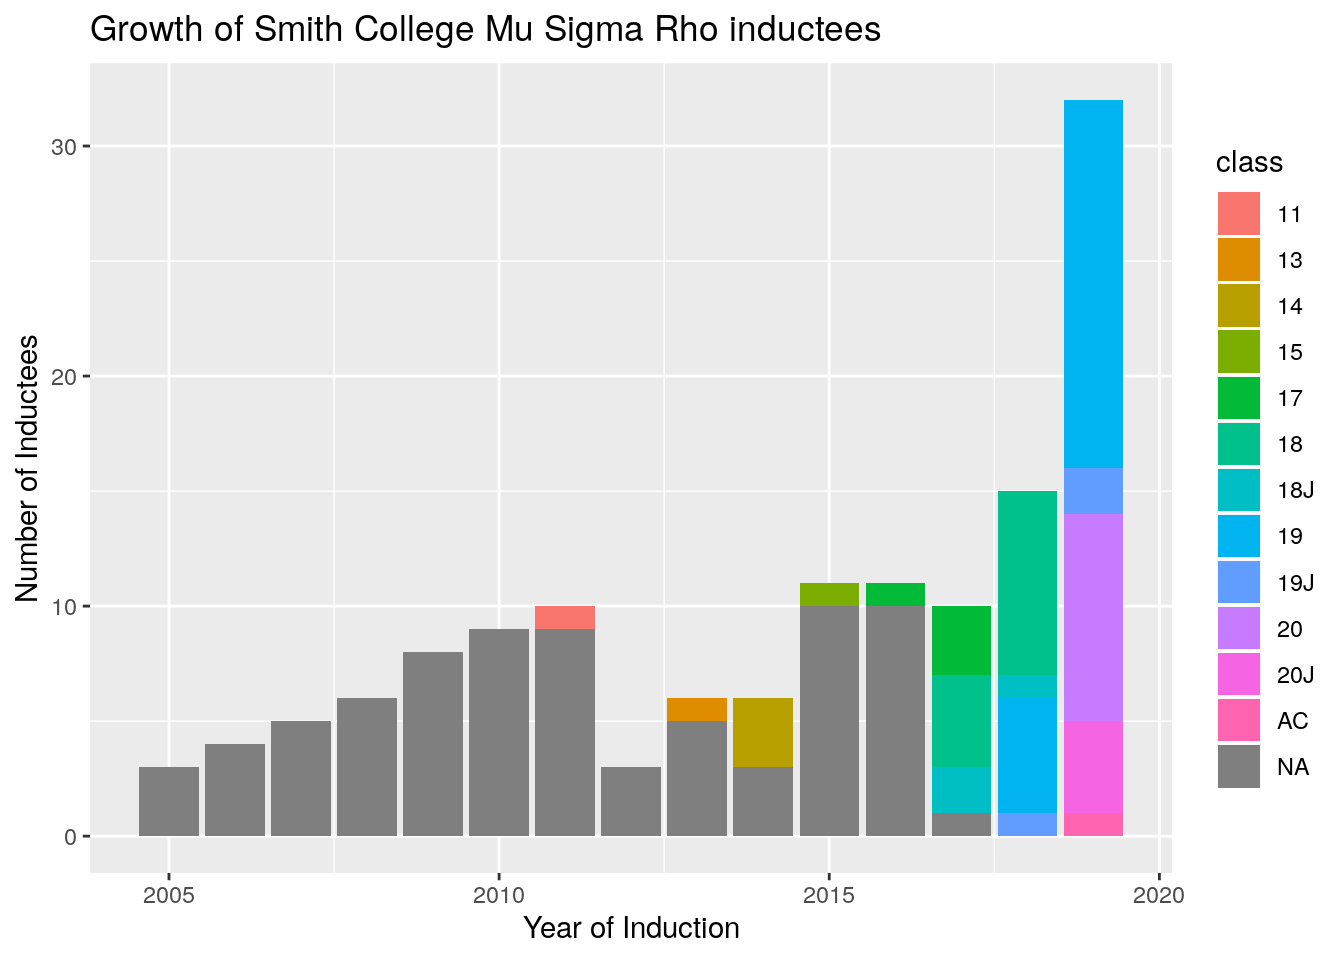
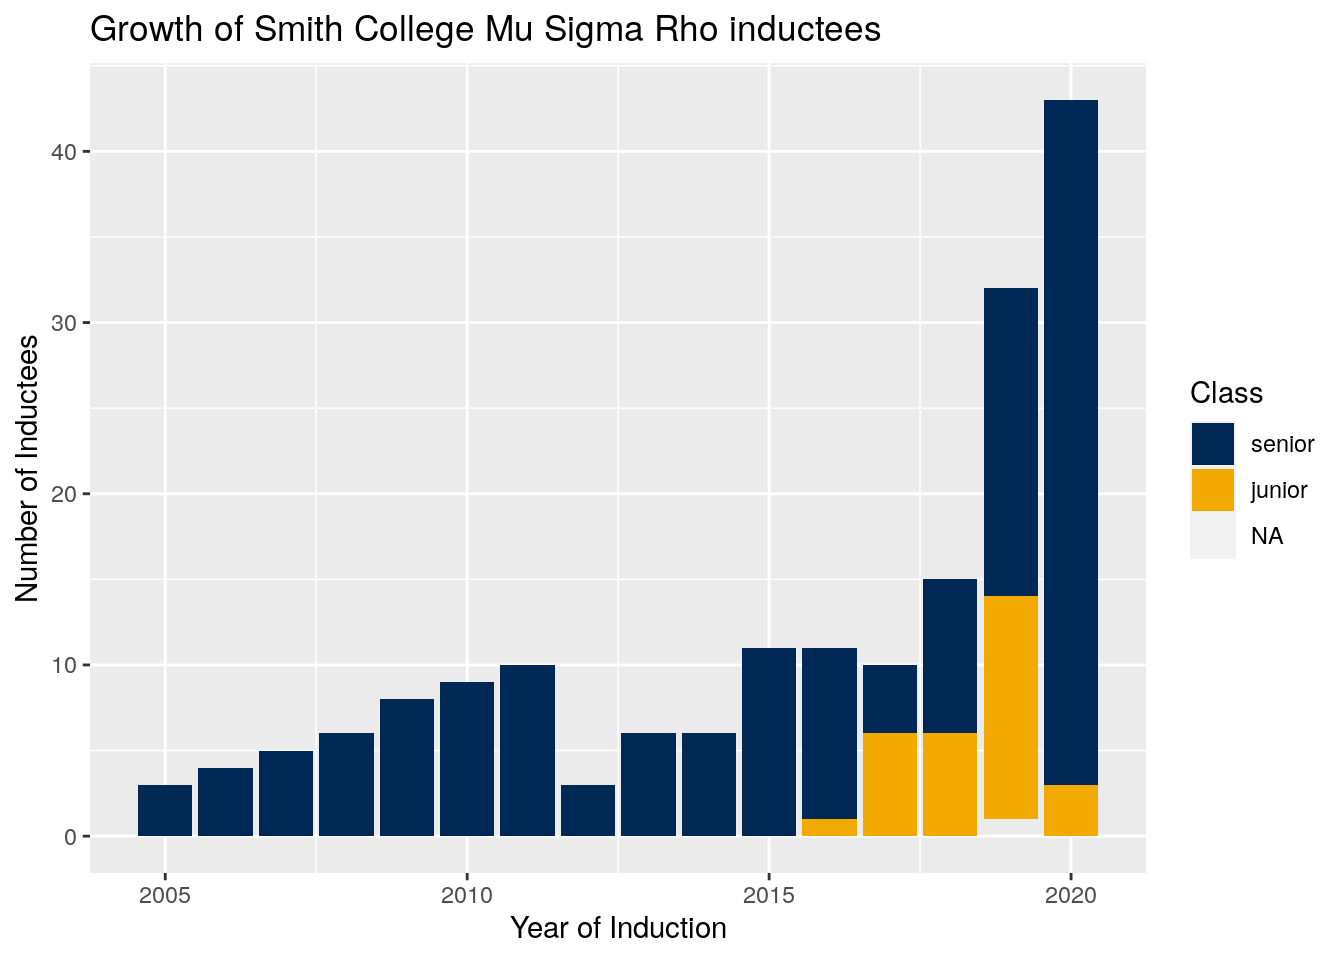
updated mu sigma rho

diff --git a/docs/mu_sigma_rho.html b/docs/mu_sigma_rho.html
@@ -20,14 +20,14 @@
 <script src="site_libs/bootstrap-3.3.5/shim/html5shiv.min.js"></script>
 <script src="site_libs/bootstrap-3.3.5/shim/respond.min.js"></script>
 <script src="site_libs/navigation-1.1/tabsets.js"></script>
-<script src="site_libs/htmlwidgets-1.5.1/htmlwidgets.js"></script>
+<script src="site_libs/htmlwidgets-1.3/htmlwidgets.js"></script>
 <link href="site_libs/datatables-css-0.0.0/datatables-crosstalk.css" rel="stylesheet" />
-<script src="site_libs/datatables-binding-0.10/datatables.js"></script>
-<link href="site_libs/dt-core-1.10.19/css/jquery.dataTables.min.css" rel="stylesheet" />
-<link href="site_libs/dt-core-1.10.19/css/jquery.dataTables.extra.css" rel="stylesheet" />
-<script src="site_libs/dt-core-1.10.19/js/jquery.dataTables.min.js"></script>
-<link href="site_libs/crosstalk-1.0.0/css/crosstalk.css" rel="stylesheet" />
-<script src="site_libs/crosstalk-1.0.0/js/crosstalk.min.js"></script>
+<script src="site_libs/datatables-binding-0.13/datatables.js"></script>
+<link href="site_libs/dt-core-1.10.20/css/jquery.dataTables.min.css" rel="stylesheet" />
+<link href="site_libs/dt-core-1.10.20/css/jquery.dataTables.extra.css" rel="stylesheet" />
+<script src="site_libs/dt-core-1.10.20/js/jquery.dataTables.min.js"></script>
+<link href="site_libs/crosstalk-1.1.0.1/css/crosstalk.css" rel="stylesheet" />
+<script src="site_libs/crosstalk-1.1.0.1/js/crosstalk.min.js"></script>
 <link href="site_libs/font-awesome-5.1.0/css/all.css" rel="stylesheet" />
 <link href="site_libs/font-awesome-5.1.0/css/v4-shims.css" rel="stylesheet" />
 
@@ -382,8 +382,8 @@ Growth of Mu Sigma Rho inductees.
 </p>
 </div>
 <p>Search the archive to find inductees:</p>
-<div id="htmlwidget-ba2f5fff5e00f4e9b88b" style="width:100%;height:auto;" class="datatables html-widget"></div>
-<script type="application/json" data-for="htmlwidget-ba2f5fff5e00f4e9b88b">{"x":{"filter":"none","data":[["1","2","3","4","5","6","7","8","9","10","11","12","13","14","15","16","17","18","19","20","21","22","23","24","25","26","27","28","29","30","31","32","33","34","35","36","37","38","39","40","41","42","43","44","45","46","47","48","49","50","51","52","53","54","55","56","57","58","59","60","61","62","63","64","65","66","67","68","69","70","71","72","73","74","75","76","77","78","79","80","81","82","83","84","85","86","87","88","89","90","91","92","93","94","95","96","97","98","99","100","101","102","103","104","105","106","107","108","109","110","111","112","113","114","115","116","117","118","119","120","121","122","123","124","125","126","127","128","129","130","131","132","133","134","135","136","137","138","139"],[2019,2019,2019,2019,2019,2019,2019,2019,2019,2019,2019,2019,2019,2019,2019,2019,2019,2019,2019,2019,2019,2019,2019,2019,2019,2019,2019,2019,2019,2019,2019,2019,2018,2018,2018,2018,2018,2018,2018,2018,2018,2018,2018,2018,2018,2018,2018,2017,2017,2017,2017,2017,2017,2017,2017,2017,2017,2016,2016,2016,2016,2016,2016,2016,2016,2016,2016,2016,2015,2015,2015,2015,2015,2015,2015,2015,2015,2015,2015,2014,2014,2014,2014,2014,2014,2013,2013,2013,2013,2013,2013,2012,2012,2012,2011,2011,2011,2011,2011,2011,2011,2011,2011,2011,2010,2010,2010,2010,2010,2010,2010,2010,2010,2009,2009,2009,2009,2009,2009,2009,2009,2008,2008,2008,2008,2008,2008,2007,2007,2007,2007,2007,2006,2006,2006,2006,2005,2005,2005],["Abramson","Alvord","Daubenspeck","Dror","Foukaris","Gans","Haines","Halloway","Halstead","Kahindi","Keast","Kosyka","Kuang","LaBossier","LaFlamme","Lee","Liu","Lu","Miguel","Moody","Ning","Patrick","Sweeney","VanAllen","Wang","Wang","Xiao","Xu","Yun","Zang","Zhang","Zhou","Boeth","Calabrese","Kang","Kyuchukova","Lemiesz","Li","Madziwo","Nguyen","Qian","Rizvi","Ruppel","Shen","Wang","Xia","Yun","Dasari","Dinh","Fitzpatrick","Fukuda","Laethem","Li","Li","Mishkin","Shaw","Sinha","Augusto","Beauchamp","Bowling","Menter","Miller","Wang","Xia","Yun","Zhang","Zheng","Zhu","Atkins","Earley","Ekins","Flores","Goore","Handy","Kung","Li","Maphanyane","Stoudt","Zhang","Fitzpatrick","Lee","Li","Milosavljevic","Udwin","Zhao","Aloisio","Pal","Shen","Yan","Yeazel","Zadworny","Anoke","Cao","Yang","Aloisio","Aryal","Do","Dodwell","Gao","Johnson","Jung","Lynch","Nyamumbo","Zadworny","Chen","Indge","Ma","Neal","O’Connor","Parker","Sheng","Tapia","Yang","Chen","Kam","Krumdieck","Lofgren","McDonough","Rathnam","Terres","Zhang","Dexter","Kirk","Rijal","Tyler","Woerner","Zheng","Bacon","Boonroong","Jain","Miu","Spasova","Antoske","Braverman","Spiegelman","Switzer","Finucane","Qian","Sang"],["Mathena","Julianna","Emily","Arielle","Stephanie","Tommi","Madeline","Shakira","Emily","Joan","Jessica","Kalynn","Yue","Natalie","Rachel","Julia","Jingyi","Hanxiao","Danica","Jordan","Yujia","Paige","Catherine","Kara","Vivian","Xiaonan","Tiffany","Chenwei","Duanyue","Ziwei","Kimberly","Yujia","Riley","Julianna","Minji","Katerina","Katherine","Zixian","Rutendo","Van","Siyu","Syeda Zainab","Emily","Zhu","Yi","Jing","Ji Young","Preeti","Ngoc","Isabelle","Erina","Madison","Qingyang","Wencong","Juliana","Olivia","Aakanksha","Carmen","Emma","Alicia","Jordan","Martha","Ruiwen","Jing","Julia","Weijia","Qingyun","Yiwen","Elizabeth","Erika","Jacqueline","Yadira","Lou Lydia Laura","Michele","Yungjen","YuXin","Lerato","Sara","Jingyang","Deirdre","Ji Ah","Rui","Maja","Dana","Yuting","Kathryn","Isabela","Qingyang","Haomin","Linnea","Zoe","Sarah","Guangye","Wenyue","Kathryn","Shivani","Elizabeth","Emily","Chi","Kathryn","Elizabeth","Kathryn","Margaret","Zoe","Zehui","Caroline","Thida","Marissa","Cyla","Portia","Isabel","Amanda","Hong","Xiaoshuang","Sarah","Natalie","Katherine","Shannon","Sarah","Maria","Christine","Nancy","Jennifer","Dharana","Kristin","Martha","Min","Julie","Onjira","Shikha","Kwun","Ana","Elizabeth","Stacy","Maura","Suzanne","Mariel","Linjuan","Xiaohong"],[null,null,null,null,null,null,"Maddie",null,null,null,null,null,null,null,null,null,null,null,null,null,"Emma",null,null,null,null,"Maggie",null,null,"Nancy","Crystal","Kim",null,null,null,null,null,null,null,null,null,"Lily",null,null,null,null,null,null,null,null,null,null,null,null,"Priscilla",null,null,null,null,null,null,null,null,null,null,null,"Vega",null,null,null,null,null,null,null,null,null,null,null,null,"Judy",null,null,null,null,null,null,null,null,"Rallye",null,null,null,null,null,null,null,null,null,null,null,"Molly",null,null,null,null,null,null,null,null,null,null,null,null,null,null,null,null,null,null,null,null,null,null,null,null,null,null,null,null,null,null,null,null,null,null,null,null,null,null,null],["19","19","20","20","19","19J","20","19","19","19","20","19","19","19","20J","19","19","19","20","20","19","AC","19","20","19","20","20J","20J","19","20J","19J","20","18","18","18","19","18","19","19","18","19","18","18","19J","19","18J","18","17",null,"18","18","18","17","18","18J","17","18J",null,null,null,null,null,null,null,null,"17",null,null,null,null,null,null,null,null,null,null,null,"15",null,"14",null,null,"14","14",null,"13",null,null,null,null,null,null,null,null,null,null,null,"11",null,null,null,null,null,null,null,null,null,null,null,null,null,null,null,null,null,null,null,null,null,null,null,null,null,null,null,null,null,null,null,null,null,null,null,null,null,null,null,null,null]],"container":"<table class=\"display\">\n  <thead>\n    <tr>\n      <th> <\/th>\n      <th>induction<\/th>\n      <th>Last<\/th>\n      <th>First<\/th>\n      <th>PrefFirst<\/th>\n      <th>class<\/th>\n    <\/tr>\n  <\/thead>\n<\/table>","options":{"pageLength":25,"columnDefs":[{"className":"dt-right","targets":1},{"orderable":false,"targets":0}],"order":[],"autoWidth":false,"orderClasses":false}},"evals":[],"jsHooks":[]}</script>
+<div id="htmlwidget-ff2594fe23292328e688" style="width:100%;height:auto;" class="datatables html-widget"></div>
+<script type="application/json" data-for="htmlwidget-ff2594fe23292328e688">{"x":{"filter":"none","data":[["1","2","3","4","5","6","7","8","9","10","11","12","13","14","15","16","17","18","19","20","21","22","23","24","25","26","27","28","29","30","31","32","33","34","35","36","37","38","39","40","41","42","43","44","45","46","47","48","49","50","51","52","53","54","55","56","57","58","59","60","61","62","63","64","65","66","67","68","69","70","71","72","73","74","75","76","77","78","79","80","81","82","83","84","85","86","87","88","89","90","91","92","93","94","95","96","97","98","99","100","101","102","103","104","105","106","107","108","109","110","111","112","113","114","115","116","117","118","119","120","121","122","123","124","125","126","127","128","129","130","131","132","133","134","135","136","137","138","139","140","141","142","143","144","145","146","147","148","149","150","151","152","153","154","155","156","157","158","159","160","161","162","163","164","165","166","167","168","169","170","171","172","173","174","175","176","177","178","179","180","181","182"],[2020,2020,2020,2020,2020,2020,2020,2020,2020,2020,2020,2020,2020,2020,2020,2020,2020,2020,2020,2020,2020,2020,2020,2020,2020,2020,2020,2020,2020,2020,2020,2020,2020,2020,2020,2020,2020,2020,2020,2020,2020,2020,2020,2019,2019,2019,2019,2019,2019,2019,2019,2019,2019,2019,2019,2019,2019,2019,2019,2019,2019,2019,2019,2019,2019,2019,2019,2019,2019,2019,2019,2019,2019,2019,2019,2018,2018,2018,2018,2018,2018,2018,2018,2018,2018,2018,2018,2018,2018,2018,2017,2017,2017,2017,2017,2017,2017,2017,2017,2017,2016,2016,2016,2016,2016,2016,2016,2016,2016,2016,2016,2015,2015,2015,2015,2015,2015,2015,2015,2015,2015,2015,2014,2014,2014,2014,2014,2014,2013,2013,2013,2013,2013,2013,2012,2012,2012,2011,2011,2011,2011,2011,2011,2011,2011,2011,2011,2010,2010,2010,2010,2010,2010,2010,2010,2010,2009,2009,2009,2009,2009,2009,2009,2009,2008,2008,2008,2008,2008,2008,2007,2007,2007,2007,2007,2006,2006,2006,2006,2005,2005,2005],["Bang","Barrios","Barylsky","Bell","Bouzaher","Carttar","Chang","Chau","Chen","Cho","Dai","Dem","El Mernissi","Foster","Furukawa","Giardine","Glidden","He","Hwang","Jaiteh","Ji","Jiang","Keita","Kusmic","Lemoto","Lewis-Bartley","Li","Livingston","Lyu","Ma","Mudanye","Mutalemwa","Ogawa","Pan","Pien","Rosenberg","Ryan","Santamaria","Snell","Tannir","Tasneem","Xu","Zamudio-Moore","Abramson","Alvord","Daubenspeck","Dror","Foukaris","Gans","Haines","Halloway","Halstead","Kahindi","Keast","Kosyka","Kuang","LaBossier","LaFlamme","Lee","Liu","Lu","Miguel","Moody","Ning","Patrick","Sweeney","VanAllen","Wang","Wang","Xiao","Xu","Yun","Zang","Zhang","Zhou","Boeth","Calabrese","Kang","Kyuchukova","Lemiesz","Li","Madziwo","Nguyen","Qian","Rizvi","Ruppel","Shen","Wang","Xia","Yun","Dasari","Dinh","Fitzpatrick","Fukuda","Laethem","Li","Li","Mishkin","Shaw","Sinha","Augusto","Beauchamp","Bowling","Menter","Miller","Wang","Xia","Yun","Zhang","Zheng","Zhu","Atkins","Earley","Ekins","Flores","Goore","Handy","Kung","Li","Maphanyane","Stoudt","Zhang","Fitzpatrick","Lee","Li","Milosavljevic","Udwin","Zhao","Aloisio","Pal","Shen","Yan","Yeazel","Zadworny","Anoke","Cao","Yang","Aloisio","Aryal","Do","Dodwell","Gao","Johnson","Jung","Lynch","Nyamumbo","Zadworny","Chen","Indge","Ma","Neal","O’Connor","Parker","Sheng","Tapia","Yang","Chen","Kam","Krumdieck","Lofgren","McDonough","Rathnam","Terres","Zhang","Dexter","Kirk","Rijal","Tyler","Woerner","Zheng","Bacon","Boonroong","Jain","Miu","Spasova","Antoske","Braverman","Spiegelman","Switzer","Finucane","Qian","Sang"],["Ji Young","Kimberly","Alina I","Gavin","Julia L","Magdalene P","Sichu","Phuong","Jing Xin","Minji","Minyue","Astou R","Ahlam","Sophia M","Yuri","Francesca R","Sarah A","Chujun","Yejin","Mariama","Qiaqia","Zhuohan","Fatima","Jasmin","Elaona T","Selina","Sicong","Emma R","Xuanqi","Yifan","Ann M","Whitney","Aoi","Shiqi","Kelly","Clara J","Irene E","Karen","Hannah M","Sophia M","Bushra","Chenwei","Isabel","Mathena","Julianna","Emily","Arielle","Stephanie","Tommi","Madeline","Shakira","Emily","Joan","Jessica","Kalynn","Yue","Natalie","Rachel","Julia","Jingyi","Hanxiao","Danica","Jordan","Yujia","Paige","Catherine","Kara","Vivian","Xiaonan","Tiffany","Chenwei","Duanyue","Ziwei","Kimberly","Yujia","Riley","Julianna","Minji","Katerina","Katherine","Zixian","Rutendo","Van","Siyu","Syeda Zainab","Emily","Zhu","Yi","Jing","Ji Young","Preeti","Ngoc","Isabelle","Erina","Madison","Qingyang","Wencong","Juliana","Olivia","Aakanksha","Carmen","Emma","Alicia","Jordan","Martha","Ruiwen","Jing","Julia","Weijia","Qingyun","Yiwen","Elizabeth","Erika","Jacqueline","Yadira","Lou Lydia Laura","Michele","Yungjen","YuXin","Lerato","Sara","Jingyang","Deirdre","Ji Ah","Rui","Maja","Dana","Yuting","Kathryn","Isabela","Qingyang","Haomin","Linnea","Zoe","Sarah","Guangye","Wenyue","Kathryn","Shivani","Elizabeth","Emily","Chi","Kathryn","Elizabeth","Kathryn","Margaret","Zoe","Zehui","Caroline","Thida","Marissa","Cyla","Portia","Isabel","Amanda","Hong","Xiaoshuang","Sarah","Natalie","Katherine","Shannon","Sarah","Maria","Christine","Nancy","Jennifer","Dharana","Kristin","Martha","Min","Julie","Onjira","Shikha","Kwun","Ana","Elizabeth","Stacy","Maura","Suzanne","Mariel","Linjuan","Xiaohong"],["Jane",null,null,null,null,null,null,null,"Jessie",null,null,null,null,null,null,null,null,null,null,null,null,"Audrey",null,null,null,null,null,null,"Christina",null,null,null,null,"Meredith",null,null,null,null,null,null,null,null,null,null,null,null,null,null,null,"Maddie",null,null,null,null,null,null,null,null,null,null,null,null,null,"Emma",null,null,null,null,"Maggie",null,null,"Nancy","Crystal","Kim",null,null,null,null,null,null,null,null,null,"Lily",null,null,null,null,null,null,null,null,null,null,null,null,"Priscilla",null,null,null,null,null,null,null,null,null,null,null,"Vega",null,null,null,null,null,null,null,null,null,null,null,null,"Judy",null,null,null,null,null,null,null,null,"Rallye",null,null,null,null,null,null,null,null,null,null,null,"Molly",null,null,null,null,null,null,null,null,null,null,null,null,null,null,null,null,null,null,null,null,null,null,null,null,null,null,null,null,null,null,null,null,null,null,null,null,null,null,null],["20","20","20","20","20","20","20","21J","20","20","20","20","20J","20","20","20","20","20","20","20","20J","20","20","20","20","20","20","20","20J","20","20","20","20","21J","20","20","20","20","21","20","20","20J","20","19","19","20","20","19","19J","20","19","19","19","20","19","19","19","20J","19","19","19","20","20","19","AC","19","20","19","20","20J","20J","19","20J","19J","20","18","18","18","19","18","19","19","18","19","18","18","19J","19","18J","18","17",null,"18","18","18","17","18","18J","17","18J",null,null,null,null,null,null,null,null,"17",null,null,null,null,null,null,null,null,null,null,null,"15",null,"14",null,null,"14","14",null,"13",null,null,null,null,null,null,null,null,null,null,null,"11",null,null,null,null,null,null,null,null,null,null,null,null,null,null,null,null,null,null,null,null,null,null,null,null,null,null,null,null,null,null,null,null,null,null,null,null,null,null,null,null,null]],"container":"<table class=\"display\">\n  <thead>\n    <tr>\n      <th> <\/th>\n      <th>induction<\/th>\n      <th>Last<\/th>\n      <th>First<\/th>\n      <th>PrefFirst<\/th>\n      <th>class<\/th>\n    <\/tr>\n  <\/thead>\n<\/table>","options":{"pageLength":25,"columnDefs":[{"className":"dt-right","targets":1},{"orderable":false,"targets":0}],"order":[],"autoWidth":false,"orderClasses":false}},"evals":[],"jsHooks":[]}</script>
 
     <div id="footer">
       <div class="container">

diff --git a/docs/site_libs/datatables-css-0.0.0/datatables-crosstalk.css b/docs/site_libs/datatables-css-0.0.0/datatables-crosstalk.css
@@ -5,3 +5,19 @@
 html body div.DTS div.dataTables_scrollBody {
   background: none;
 }
+
+
+/*
+Fix https://github.com/rstudio/DT/issues/563
+If the `table.display` is set to "block" (e.g., pkgdown), the browser will display
+datatable objects strangely. The search panel and the page buttons will still be
+in full-width but the table body will be "compact" and shorter.
+In therory, having this attributes will affect `dom="t"`
+with `display: block` users. But in reality, there should be no one.
+We may remove the below lines in the future if the upstream agree to have this there.
+See https://github.com/DataTables/DataTablesSrc/issues/160
+*/
+
+table.dataTable {
+  display: table;
+}
